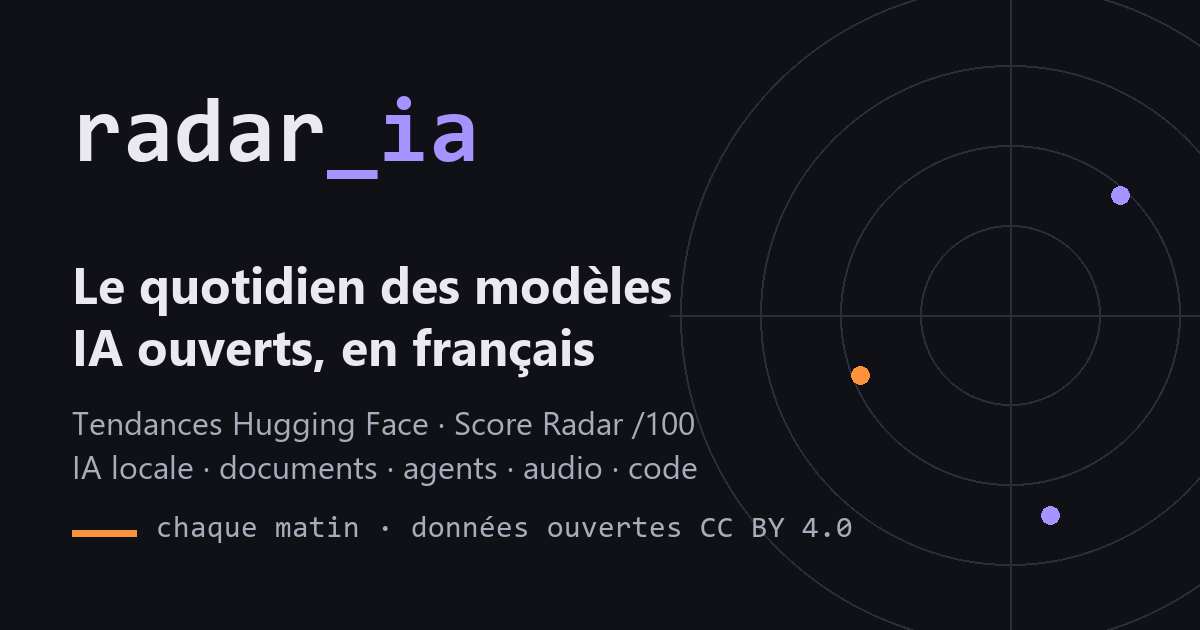
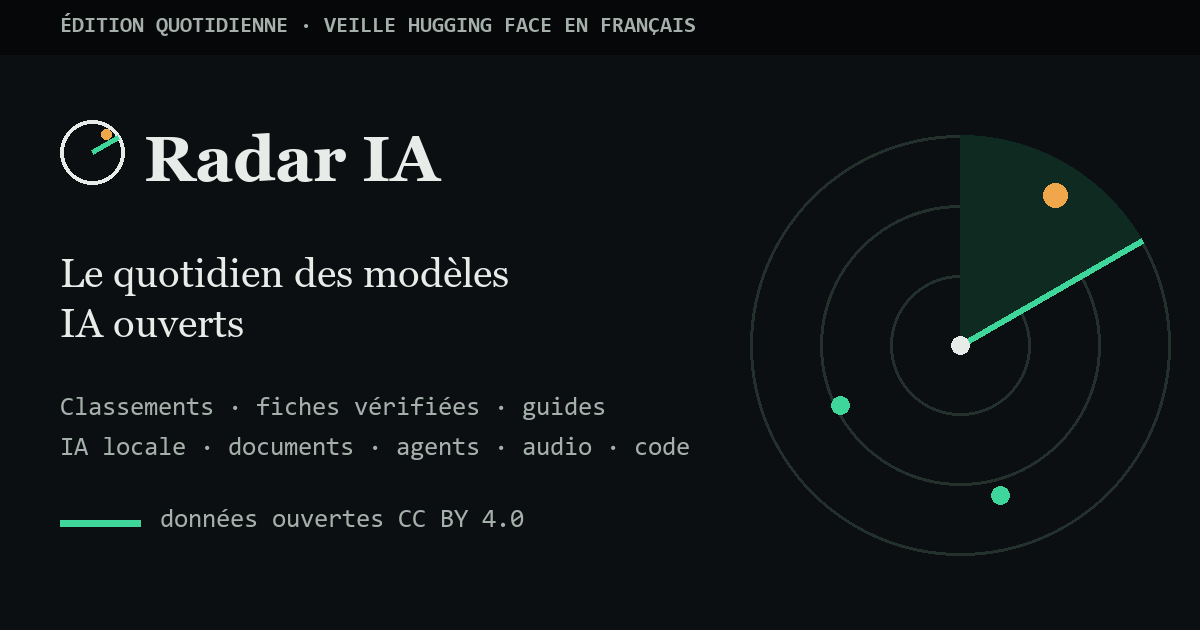
Charte graphique v2 : instrument de bord éditorial ; aucune donnée personnelle
- logo radar SVG, favicon, image de partage refaite
- titres serif, données en mono, accent vert signal et ambre, couleurs par domaine
- bandeau d'édition, en-tête de quotidien, jauges Score Radar en anneau, panneau « Le radar du jour »
- menu défilant sur mobile, thèmes clair et sombre
- CHARTE.md ; retrait des mentions personnelles du propriétaire (nom, profil LinkedIn)

diff --git a/build/build.py b/build/build.py
@@ -304,61 +304,125 @@ class Site:
 # ------------------------------------------------------------------ gabarit
 
 CSS = r"""
-:root{--bg:#f7f7f5;--bg2:#fff;--bg3:#ecece6;--fg:#16181d;--fg2:#4a505b;--fg3:#7a808a;--line:#dcdcd4;--acc:#5b3fd9;--acc2:#c2410c;--soft:#ebe6ff;--star:#a16207;
---mono:"JetBrains Mono",ui-monospace,SFMono-Regular,Menlo,Consolas,monospace;--sans:"IBM Plex Sans",system-ui,-apple-system,"Segoe UI",Roboto,sans-serif;--r:6px;color-scheme:light}
-@media (prefers-color-scheme:dark){:root{--bg:#101116;--bg2:#171922;--bg3:#20232e;--fg:#e9e9ef;--fg2:#a9adbb;--fg3:#7c8191;--line:#2a2e3b;--acc:#a593ff;--acc2:#fb923c;--soft:#25204a;--star:#eab308;color-scheme:dark}}
+/* Charte Radar IA v2 : « instrument de bord éditorial ». Voir CHARTE.md. */
+:root{--bg:#f6f4ee;--bg2:#fffefa;--bg3:#ece8de;--fg:#12161a;--fg2:#4a525c;--fg3:#757d86;--line:#ddd8cc;--rule:#12161a;
+--acc:#0a7155;--acc-ink:#065240;--soft:#dcefe6;--acc2:#a8530a;--star:#a8530a;--ring:#d9d4c7;--band:#12161a;--on-band:#eef1ec;
+--d-local:#2463d6;--d-documents:#a8530a;--d-agents:#7a3fd6;--d-audio:#c42a72;--d-code:#08799a;--d-multilingue:#178a3e;
+--d-image-video:#d2501a;--d-donnees:#5b7a12;--d-tendances:#5f6b78;
+--serif:"Iowan Old Style","Charter","Bitstream Charter","Sitka Text",Cambria,Georgia,serif;
+--sans:system-ui,-apple-system,"Segoe UI",Roboto,"Helvetica Neue",Arial,sans-serif;
+--mono:ui-monospace,"Cascadia Code","JetBrains Mono",SFMono-Regular,Menlo,Consolas,monospace;--r:4px;color-scheme:light}
+@media (prefers-color-scheme:dark){:root{--bg:#0b0f12;--bg2:#11171b;--bg3:#18211f;--fg:#e7ece8;--fg2:#a6b0aa;--fg3:#7b8781;--line:#24302c;--rule:#e7ece8;
+--acc:#3fd69b;--acc-ink:#7be8bd;--soft:#10291f;--acc2:#f0a64a;--star:#f0a64a;--ring:#24302c;--band:#050709;--on-band:#e7ece8;
+--d-local:#6b9cff;--d-documents:#f0a64a;--d-agents:#b08cff;--d-audio:#ff7ab2;--d-code:#4cc9e8;--d-multilingue:#5fd68a;
+--d-image-video:#ff8a5c;--d-donnees:#a9cf52;--d-tendances:#9aa6b2;color-scheme:dark}}
 *{box-sizing:border-box}html{-webkit-text-size-adjust:100%}
-body{margin:0;background:var(--bg);color:var(--fg);font:16px/1.6 var(--sans)}
-a{color:var(--acc);text-decoration:none}a:hover{text-decoration:underline}:focus-visible{outline:2px solid var(--acc2);outline-offset:2px}
-.w{max-width:1120px;margin:0 auto;padding-inline:16px}
-h1,h2,h3{line-height:1.2;text-wrap:balance;margin:0}h1{font-size:clamp(1.6rem,3.6vw,2.4rem);letter-spacing:-.02em}h2{font-size:1.3rem}h3{font-size:1.05rem}
+body{margin:0;background:var(--bg);color:var(--fg);font:16.5px/1.62 var(--sans)}
+a{color:var(--acc-ink);text-decoration:underline;text-decoration-color:color-mix(in srgb,currentColor 35%,transparent);text-underline-offset:2px}
+a:hover{text-decoration-color:currentColor}:focus-visible{outline:2px solid var(--acc2);outline-offset:2px}
+.w{max-width:1160px;margin:0 auto;padding-inline:16px}
+h1,h2,h3{font-family:var(--serif);line-height:1.15;text-wrap:balance;margin:0;font-weight:700;letter-spacing:-.01em}
+h1{font-size:clamp(1.8rem,4.2vw,2.9rem)}h2{font-size:1.35rem}h3{font-size:1.08rem}
+h3 a,h2 a,.card h3 a{color:var(--fg);text-decoration:none}h3 a:hover,h2 a:hover{color:var(--acc-ink)}
 .mono,.num{font-family:var(--mono);font-variant-numeric:tabular-nums}
-.eb{font-family:var(--mono);font-size:.72rem;letter-spacing:.08em;text-transform:uppercase;color:var(--fg3)}
+.eb{font-family:var(--mono);font-size:.7rem;letter-spacing:.12em;text-transform:uppercase;color:var(--fg3)}
 .mut{color:var(--fg2)}.sm{font-size:.88rem}
-header.top{border-bottom:1px solid var(--line);background:var(--bg)}
-.bar{display:flex;align-items:center;justify-content:space-between;gap:12px;padding-block:14px;flex-wrap:wrap}
-.logo{font-family:var(--mono);font-weight:700;font-size:1.15rem;color:var(--fg)}.logo b{color:var(--acc)}
-nav.m{display:flex;gap:2px;flex-wrap:wrap}nav.m a{font-family:var(--mono);font-size:.84rem;padding:6px 10px;border-radius:var(--r);color:var(--fg2)}
-nav.m a[aria-current=page]{background:var(--fg);color:var(--bg)}
-main{padding-block:28px 56px}section{margin-top:36px}section:first-child{margin-top:0}
-.sh{display:flex;align-items:baseline;justify-content:space-between;gap:12px;border-bottom:1px solid var(--line);padding-bottom:8px;margin-bottom:14px}
-.crumb{font-family:var(--mono);font-size:.78rem;color:var(--fg3);margin-bottom:12px}.crumb a{color:var(--fg3)}
-.lead{display:grid;grid-template-columns:minmax(0,1.6fr) minmax(0,1fr);gap:28px}@media(max-width:820px){.lead{grid-template-columns:1fr}}
-.ess{list-style:none;margin:16px 0 0;padding:0}.ess li{padding:10px 0;border-top:1px solid var(--line)}.ess li:first-child{border-top:0}
-.ess li::before{content:"> ";font-family:var(--mono);color:var(--acc2);font-weight:700}
-.box{background:var(--bg3);border-radius:var(--r);padding:14px 16px}
-.cards{display:grid;grid-template-columns:repeat(auto-fill,minmax(240px,1fr));gap:12px}
-.card{background:var(--bg2);border:1px solid var(--line);border-radius:var(--r);padding:14px;display:flex;flex-direction:column;gap:6px;min-width:0}
+/* Bandeau et en-tête façon quotidien */
+.strip{background:var(--band);color:var(--on-band);font-family:var(--mono);font-size:.72rem;letter-spacing:.06em}
+.strip .w{display:flex;justify-content:space-between;gap:12px;padding-block:6px;flex-wrap:wrap}.strip a{color:var(--on-band)}
+header.top{background:var(--bg);border-bottom:3px double var(--rule)}
+.bar{display:flex;align-items:center;justify-content:space-between;gap:12px;padding-block:16px 12px;flex-wrap:wrap}
+.logo{display:inline-flex;align-items:center;gap:10px;color:var(--fg);text-decoration:none}
+.logo svg{width:38px;height:38px;flex:none}.logo b{font-family:var(--serif);font-size:1.7rem;letter-spacing:-.02em;line-height:1}
+.logo i{font-style:normal;font-family:var(--mono);font-size:.72rem;color:var(--fg3);letter-spacing:.08em;display:block;margin-top:3px}
+nav.m{display:flex;gap:2px;flex-wrap:wrap}
+nav.m a{font-family:var(--mono);font-size:.8rem;padding:6px 9px;border-radius:var(--r);color:var(--fg2);text-decoration:none}
+nav.m a:hover{color:var(--fg);background:var(--bg3)}nav.m a[aria-current=page]{color:var(--fg);box-shadow:inset 0 -2px 0 var(--acc)}
+nav.m a.sub{background:var(--acc);color:var(--bg2);font-weight:600}nav.m a.sub:hover{background:var(--acc-ink)}
+main{padding-block:30px 60px}section{margin-top:40px}section:first-child{margin-top:0}
+.sh{display:flex;align-items:baseline;justify-content:space-between;gap:12px;border-top:2px solid var(--rule);padding-top:8px;margin-bottom:16px}
+.sh h2{font-size:1.25rem}.sh a{font-family:var(--mono);font-size:.8rem;white-space:nowrap}.sh .eb{white-space:nowrap}
+.crumb{font-family:var(--mono);font-size:.76rem;color:var(--fg3);margin-bottom:14px}.crumb a{color:var(--fg3)}
+/* Une */
+.lead{display:grid;grid-template-columns:minmax(0,1.65fr) minmax(0,1fr);gap:36px}@media(max-width:860px){.lead{grid-template-columns:1fr}}
+.ess{list-style:none;margin:18px 0 0;padding:0;counter-reset:e}
+.ess li{counter-increment:e;display:grid;grid-template-columns:2.2rem 1fr;gap:6px;padding:12px 0;border-top:1px solid var(--line)}
+.ess li:first-child{border-top:0}.ess li::before{content:counter(e,decimal-leading-zero);font-family:var(--mono);font-weight:700;color:var(--acc);padding-top:2px}
+.box{background:var(--bg3);border-radius:var(--r);padding:16px 18px}
+.radar{background:var(--bg2);border:1px solid var(--line);border-radius:var(--r);padding:16px 18px}
+.radar h2{font-size:1rem;font-family:var(--mono);text-transform:uppercase;letter-spacing:.1em;color:var(--fg2)}
+.bars{list-style:none;margin:12px 0 0;padding:0}.bars li{margin:10px 0}.bars a{color:var(--fg);text-decoration:none;font-weight:600;font-size:.92rem}
+.bars .t{display:flex;justify-content:space-between;gap:8px}.bars .t span{font-family:var(--mono);font-size:.8rem;color:var(--fg2)}
+.bars .g{height:6px;background:var(--ring);border-radius:3px;margin-top:4px;overflow:hidden}.bars .g i{display:block;height:100%;background:var(--acc);border-radius:3px}
+/* Cartes */
+.cards{display:grid;grid-template-columns:repeat(auto-fill,minmax(250px,1fr));gap:14px}
+.card{background:var(--bg2);border:1px solid var(--line);border-top:3px solid var(--dc,var(--line));border-radius:var(--r);padding:14px 16px;display:flex;flex-direction:column;gap:7px;min-width:0}
 .card h3{overflow-wrap:anywhere}.card p{margin:0;font-size:.92rem;color:var(--fg2)}
-.meta{display:flex;gap:12px;flex-wrap:wrap;font-family:var(--mono);font-size:.76rem;color:var(--fg2);margin-top:auto}
-.sc{display:inline-block;min-width:38px;text-align:center;padding:2px 8px;border-radius:12px;font-family:var(--mono);font-size:.82rem;background:var(--soft);color:var(--acc)}
-.sc.hot{background:var(--acc);color:var(--bg)}
-.chip{display:inline-block;font-family:var(--mono);font-size:.7rem;padding:1px 7px;border-radius:3px;background:var(--bg3);color:var(--fg2);margin:0 4px 4px 0}
+.meta{display:flex;gap:12px;flex-wrap:wrap;font-family:var(--mono);font-size:.75rem;color:var(--fg2);margin-top:auto;padding-top:4px}
+/* Jauge Score Radar */
+.sc{--p:0;display:inline-grid;place-items:center;width:2.35em;height:2.35em;border-radius:50%;vertical-align:middle;flex:none;
+background:radial-gradient(closest-side,var(--bg2) 76%,transparent 78% 100%),conic-gradient(var(--fg3) calc(var(--p)*1%),var(--ring) 0);
+font:700 .78rem/1 var(--mono);color:var(--fg)}
+.sc.hot{background:radial-gradient(closest-side,var(--bg2) 76%,transparent 78% 100%),conic-gradient(var(--acc) calc(var(--p)*1%),var(--ring) 0);color:var(--acc-ink)}
+h1 .sc{font-size:1.1rem}
+.chip{display:inline-flex;align-items:center;gap:5px;font-family:var(--mono);font-size:.7rem;padding:2px 7px;border-radius:999px;background:var(--bg3);color:var(--fg2);margin:0 4px 4px 0;text-decoration:none}
+.chip[data-d]::before{content:"";width:7px;height:7px;border-radius:50%;background:var(--dc,var(--fg3))}
+a.chip:hover{color:var(--fg)}
 .star{color:var(--star)}
+/* Tableaux */
 .tw{overflow-x:auto;border:1px solid var(--line);border-radius:var(--r);background:var(--bg2)}
-table{border-collapse:collapse;width:100%;font-size:.9rem}th{font-family:var(--mono);font-size:.7rem;text-transform:uppercase;letter-spacing:.06em;color:var(--fg3);text-align:left;padding:9px 10px;border-bottom:2px solid var(--line);white-space:nowrap}
-td{padding:9px 10px;border-bottom:1px solid var(--line);vertical-align:top}tr:last-child td{border-bottom:0}.r{text-align:right}
-.tw table{min-width:680px}
-.up{color:#15803d}.dn{color:var(--acc2)}
-article.a{max-width:70ch}article.a .chapo{font-size:1.12rem;color:var(--fg2)}
-.by{font-family:var(--mono);font-size:.78rem;color:var(--fg3);border-block:1px solid var(--line);padding-block:8px;margin:14px 0 20px;display:flex;gap:14px;flex-wrap:wrap}
-.body h2{margin:26px 0 8px}.body h3{margin:18px 0 6px}.body p{margin:0 0 14px}.body ul,.body ol{padding-left:22px;margin:0 0 14px}
-.body table{margin-bottom:14px;display:block;overflow-x:auto;max-width:100%}main{overflow-wrap:anywhere}.body blockquote{margin:0 0 14px;padding-left:14px;border-left:3px solid var(--acc);color:var(--fg2)}
+table{border-collapse:collapse;width:100%;font-size:.9rem}
+th{font-family:var(--mono);font-size:.68rem;text-transform:uppercase;letter-spacing:.08em;color:var(--fg3);text-align:left;padding:10px;border-bottom:2px solid var(--rule);white-space:nowrap;background:var(--bg2)}
+td{padding:9px 10px;border-bottom:1px solid var(--line);vertical-align:middle}tr:last-child td{border-bottom:0}tbody tr:hover td{background:var(--bg3)}
+td a{text-decoration:none}td a strong{color:var(--fg)}.r{text-align:right}.tw table{min-width:680px}
+.up{color:#178a3e}.dn{color:var(--acc2)}
+/* Articles */
+article.a{max-width:68ch}article.a h1{font-size:clamp(1.9rem,4.4vw,3rem)}
+article.a .chapo{font-family:var(--serif);font-size:1.22rem;line-height:1.5;color:var(--fg2);margin:14px 0 0}
+.by{font-family:var(--mono);font-size:.76rem;color:var(--fg3);border-block:1px solid var(--line);padding-block:9px;margin:18px 0 24px;display:flex;gap:14px;flex-wrap:wrap}
+.body{font-size:1.04rem}.body h2{margin:30px 0 10px;font-size:1.4rem}.body h3{margin:20px 0 6px}.body p{margin:0 0 15px}.body ul,.body ol{padding-left:22px;margin:0 0 15px}
+.body table{margin-bottom:15px;display:block;overflow-x:auto;max-width:100%}main{overflow-wrap:anywhere}
+.body blockquote{margin:0 0 15px;padding:4px 0 4px 16px;border-left:3px solid var(--acc);color:var(--fg2);font-family:var(--serif);font-size:1.08rem}
 .body code,code{font-family:var(--mono);font-size:.86em;background:var(--bg3);padding:1px 5px;border-radius:3px}
-dl.kv{display:grid;grid-template-columns:max-content 1fr;gap:6px 16px;margin:0}dl.kv dt{font-family:var(--mono);font-size:.8rem;color:var(--fg3)}dl.kv dd{margin:0}
-.faq dt{font-weight:600;margin-top:16px}.faq dd{margin:4px 0 0}
-pre.code{font-family:var(--mono);font-size:.82rem;background:var(--bg3);padding:12px 14px;border-radius:var(--r);overflow-x:auto}
-footer{border-top:1px solid var(--line);padding-block:20px 32px;font-size:.85rem;color:var(--fg2)}
-footer .w{display:flex;justify-content:space-between;gap:16px;flex-wrap:wrap}footer nav{display:flex;gap:12px;flex-wrap:wrap;font-family:var(--mono);font-size:.8rem}
-nav.m a.sub{color:var(--acc);font-weight:600}
-.spon{margin-top:28px;padding:10px 14px;border:1px dashed var(--line);border-radius:var(--r);font-size:.88rem;color:var(--fg2)}.spon .eb{margin-right:6px}
-.cta{margin-top:36px;border-left:3px solid var(--acc)}.cta h2{font-size:1.1rem}.cta p{margin:6px 0}
+dl.kv{display:grid;grid-template-columns:max-content 1fr;gap:0;margin:0;border-top:1px solid var(--line)}
+dl.kv dt,dl.kv dd{padding:7px 0;border-bottom:1px solid var(--line)}dl.kv dt{font-family:var(--mono);font-size:.76rem;color:var(--fg3);padding-right:18px;text-transform:uppercase;letter-spacing:.05em}dl.kv dd{margin:0}
+.faq dt{font-family:var(--serif);font-weight:700;font-size:1.12rem;margin-top:22px}.faq dd{margin:6px 0 0}
+pre.code{font-family:var(--mono);font-size:.82rem;background:var(--band);color:var(--on-band);padding:14px 16px;border-radius:var(--r);overflow-x:auto}
+/* Pied de page */
+footer{background:var(--band);color:var(--on-band);border-top:1px solid var(--line);padding-block:28px 36px;font-size:.86rem;margin-top:20px}
+footer a{color:var(--on-band)}footer .w{display:flex;justify-content:space-between;gap:20px;flex-wrap:wrap}
+footer nav{display:flex;gap:14px;flex-wrap:wrap;font-family:var(--mono);font-size:.78rem}footer .logo{color:var(--on-band)}footer .logo i{color:color-mix(in srgb,var(--on-band) 65%,transparent)}
+footer p{margin:10px 0 0;max-width:62ch;color:color-mix(in srgb,var(--on-band) 78%,transparent)}
+/* Audience et revenus */
+.spon{margin-top:30px;padding:10px 14px;border:1px dashed var(--line);border-radius:var(--r);font-size:.86rem;color:var(--fg2)}.spon .eb{margin-right:8px}
+.cta{margin-top:40px;border-left:4px solid var(--acc);background:var(--soft)}.cta h2{font-size:1.2rem}.cta p{margin:6px 0}
 form.nl{margin:10px 0 4px}form.nl div{display:flex;gap:8px;flex-wrap:wrap}form.nl label{display:block;margin-bottom:4px}
-form.nl input[type=email]{flex:1 1 220px;min-width:0;font:inherit;padding:8px 10px;border:1px solid var(--line);border-radius:var(--r);background:var(--bg2);color:var(--fg)}
-form.nl button,a.btn{font:600 .9rem var(--sans);padding:8px 14px;border:0;border-radius:var(--r);background:var(--acc);color:var(--bg);cursor:pointer;display:inline-block}
-a.btn:hover{text-decoration:none;opacity:.9}.btns{display:flex;gap:10px;flex-wrap:wrap;margin:12px 0}
-.offres{display:grid;grid-template-columns:repeat(auto-fill,minmax(240px,1fr));gap:12px;margin-top:12px}.offres .card strong.prix{font-family:var(--mono);color:var(--acc)}
+form.nl input[type=email]{flex:1 1 220px;min-width:0;font:inherit;padding:9px 11px;border:1px solid var(--line);border-radius:var(--r);background:var(--bg2);color:var(--fg)}
+form.nl button,a.btn{font:600 .9rem var(--sans);padding:9px 15px;border:0;border-radius:var(--r);background:var(--acc);color:var(--bg2);cursor:pointer;display:inline-block;text-decoration:none}
+a.btn:hover,form.nl button:hover{background:var(--acc-ink)}.btns{display:flex;gap:10px;flex-wrap:wrap;margin:12px 0}
+.offres{display:grid;grid-template-columns:repeat(auto-fill,minmax(240px,1fr));gap:12px;margin-top:12px}.offres .card strong.prix{font-family:var(--mono);color:var(--acc-ink)}
+/* Couleurs de domaine */
+[data-d=local]{--dc:var(--d-local)}[data-d=documents]{--dc:var(--d-documents)}[data-d=agents]{--dc:var(--d-agents)}[data-d=audio]{--dc:var(--d-audio)}
+[data-d=code]{--dc:var(--d-code)}[data-d=multilingue]{--dc:var(--d-multilingue)}[data-d=image-video]{--dc:var(--d-image-video)}[data-d=donnees]{--dc:var(--d-donnees)}[data-d=tendances]{--dc:var(--d-tendances)}
+@media(max-width:600px){body{font-size:16px}.bar{padding-block:12px 6px;gap:8px}.logo b{font-size:1.45rem}.logo svg{width:32px;height:32px}.strip .long{display:none}
+nav.m{flex-wrap:nowrap;overflow-x:auto;width:100%;gap:0;scrollbar-width:none;margin-inline:-4px}nav.m a{padding:7px 8px;font-size:.78rem;white-space:nowrap}.lead{gap:24px}}
+@media print{.strip,nav.m,.spon,.cta,footer nav{display:none}body{background:#fff;color:#000}}
 """
+
+LOGO = ('<svg viewBox="0 0 40 40" aria-hidden="true"><circle cx="20" cy="20" r="18" fill="none" stroke="currentColor" stroke-width="2"/>'
+        '<circle cx="20" cy="20" r="11" fill="none" stroke="currentColor" stroke-width="1.4" opacity=".5"/>'
+        '<path d="M20 20 L20 2 A18 18 0 0 1 35.6 11 Z" fill="var(--acc)" opacity=".3"/>'
+        '<line x1="20" y1="20" x2="35.6" y2="11" stroke="var(--acc)" stroke-width="2.4" stroke-linecap="round"/>'
+        '<circle cx="27.5" cy="9.6" r="2.7" fill="var(--acc2)"/><circle cx="20" cy="20" r="2.3" fill="currentColor"/></svg>')
+FAVICON = ('<svg xmlns="http://www.w3.org/2000/svg" viewBox="0 0 40 40"><circle cx="20" cy="20" r="20" fill="#0b0f12"/>'
+           '<circle cx="20" cy="20" r="15" fill="none" stroke="#3fd69b" stroke-width="2.2"/><circle cx="20" cy="20" r="8.5" fill="none" stroke="#3fd69b" stroke-width="1.4" opacity=".55"/>'
+           '<line x1="20" y1="20" x2="33" y2="12.5" stroke="#3fd69b" stroke-width="2.6" stroke-linecap="round"/><circle cx="27" cy="11" r="2.8" fill="#f0a64a"/></svg>')
+
+def dom_chip(site, d, root=None) -> str:
+    """Pastille de domaine colorée (lien si root est fourni)."""
+    if root is None:
+        return f'<span class="chip" data-d="{esc(d)}">{esc(site.dom_name(d))}</span>'
+    return f'<a class="chip" data-d="{esc(d)}" href="{root}{site.dom_page(d)}">{esc(site.dom_name(d))}</a>'
 
 NAV = [("index.html", "Une"), ("classements.html", "Classements"), ("articles.html", "Articles"), ("modeles.html", "Modèles"),
        ("domaines.html", "Domaines"), ("guides.html", "Guides"), ("editions.html", "Éditions"), ("faq.html", "FAQ"), ("pour-les-ia.html", "API & IA"),
@@ -453,7 +517,7 @@ def page(site: Site, path: str, title: str, desc: str, body: str, *, jsonld: lis
 <meta name="description" content="{esc(clip(desc, 158))}">
 <meta name="robots" content="{'noindex' if path == '404.html' else 'index,follow,max-snippet:-1,max-image-preview:large'}">{verif_meta}
 {f'<link rel="canonical" href="{esc(canonical)}">' if site.url and path != '404.html' else ''}
-<link rel="stylesheet" href="{root}assets/style.css">
+<link rel="stylesheet" href="{root}assets/style.css"><link rel="icon" href="{root}assets/favicon.svg" type="image/svg+xml">
 <link rel="alternate" type="application/rss+xml" title="{SITE_NAME} — RSS" href="{root}feed.xml">
 <link rel="alternate" type="application/feed+json" title="{SITE_NAME} — JSON Feed" href="{root}feed.json">
 <link rel="alternate" type="text/plain" title="llms.txt" href="{root}llms.txt">
@@ -463,12 +527,14 @@ def page(site: Site, path: str, title: str, desc: str, body: str, *, jsonld: lis
 <meta property="og:type" content="{og_type}"><meta property="og:title" content="{esc(clip(title, 90))}">
 <meta property="og:description" content="{esc(clip(desc, 200))}">{f'<meta property="og:url" content="{esc(canonical)}">' if site.url else ''}
 {f'<meta property="article:published_time" content="{esc(iso_dt(published))}">' if published else ''}{f'<meta property="article:modified_time" content="{esc(iso_dt(modified))}">' if modified else ''}
-{og_img}<meta name="theme-color" content="#5b3fd9">
+{og_img}<meta name="theme-color" content="#0b0f12">
 <script type="application/ld+json">{json.dumps(ld if len(ld) > 1 else ld[0], ensure_ascii=False).replace("</", "<\\/")}</script>"""
-    shell_top = f"""<header class="top"><div class="w bar"><a class="logo" href="{root}index.html">radar<b>_ia</b></a><nav class="m" aria-label="Rubriques">{nav}</nav></div></header>
+    marque = f'{LOGO}<span><b>{SITE_NAME}</b><i>LE QUOTIDIEN DES MODÈLES IA OUVERTS</i></span>'
+    shell_top = f"""<div class="strip"><div class="w"><span>Édition du {d_long(site.today)}<span class="long"> · veille quotidienne Hugging Face en français</span></span><span><a href="{root}abonnement.html">S'abonner</a> · <a href="{root}feed.xml">RSS</a> · <a href="{root}llms.txt">llms.txt</a></span></div></div>
+<header class="top"><div class="w bar"><a class="logo" href="{root}index.html">{marque}</a><nav class="m" aria-label="Rubriques">{nav}</nav></div></header>
 <main class="w">{crumb_html}{body}</main>
-<footer><div class="w"><div>{SITE_NAME} — {esc(SITE_TAGLINE)}.<br>Données sous licence <a href="{LICENSE_URL}" rel="license">CC BY 4.0</a> · mise à jour {d_short(site.today)} · rédigé par des agents IA, sources liées sur chaque page.</div>
-<nav><a href="{root}abonnement.html">S'abonner</a><a href="{root}soutenir.html">Soutenir</a><a href="{root}soutenir.html#annoncer">Devenir partenaire</a><a href="{root}feed.xml">RSS</a><a href="{root}llms.txt">llms.txt</a><a href="{root}api/v1/index.json">API</a><a href="{root}sitemap.xml">Sitemap</a><a href="{root}methode.html">Méthode</a></nav></div></footer>{pixel(site, path)}"""
+<footer><div class="w"><div><a class="logo" href="{root}index.html">{marque}</a><p>{esc(SITE_TAGLINE)}. Rédigé par des agents IA ; licences, dates et tailles vérifiées sur l'API Hugging Face ; sources liées sur chaque page. Données sous licence <a href="{LICENSE_URL}" rel="license">CC BY 4.0</a> · mise à jour {d_short(site.today)}.</p></div>
+<nav aria-label="Pied de page"><a href="{root}abonnement.html">S'abonner</a><a href="{root}soutenir.html">Soutenir</a><a href="{root}soutenir.html#annoncer">Devenir partenaire</a><a href="{root}guides.html">Guides</a><a href="{root}methode.html">Méthode</a><a href="{root}feed.xml">RSS</a><a href="{root}llms.txt">llms.txt</a><a href="{root}api/v1/index.json">API</a><a href="{root}sitemap.xml">Sitemap</a></nav></div></footer>{pixel(site, path)}"""
     if artifact_shell:  # page racine d'un artefact Claude : pas de doctype, le squelette est ajouté à la publication
         return head + "\n" + shell_top
     return f"""<!doctype html>
@@ -550,17 +616,19 @@ def ld_dataset(site):
 
 def score_badge(s):
     if s is None: return ""
-    s = round(float(s)); return f'<span class="sc{" hot" if s >= 70 else ""}" title="Score Radar /100">{s}</span>'
+    s = max(0, min(100, round(float(s))))
+    return f'<span class="sc{" hot" if s >= 70 else ""}" style="--p:{s}" title="Score Radar {s}/100">{s}</span>'
 
 def item_card(site, it, root, rank=None):
     star = '<span class="star" title="Pertinent : local, documents, agents, audio, code, français">★</span> ' if it.get("pertinent") else ""
-    doms = "".join(f'<span class="chip">{esc(site.dom_name(d))}</span>' for d in it.get("domaines") or [])
-    return f"""<div class="card"><div style="display:flex;justify-content:space-between;gap:8px"><div class="eb">{f"#{rank} · " if rank else ""}{esc(it.get('org'))}</div>{score_badge(it.get('score'))}</div>
+    doms = "".join(dom_chip(site, d) for d in it.get("domaines") or [])
+    d0 = (it.get("domaines") or ["tendances"])[0]
+    return f"""<div class="card" data-d="{esc(d0)}"><div style="display:flex;justify-content:space-between;gap:8px"><div class="eb">{f"#{rank} · " if rank else ""}{esc(it.get('org'))}</div>{score_badge(it.get('score'))}</div>
 <h3>{star}<a href="{root}{site.item_page(it)}">{esc(it.get('nom'))}</a></h3><div>{doms}<span class="chip">{esc(TYPE_LABEL.get(it.get('type'), ''))}</span></div>
 <p>{esc(it.get('pourquoi') or it.get('resume'))}</p><div class="meta"><span>♥ {fmt_n(it.get('likes'))}</span><span>↓ {fmt_n(it.get('downloads'))}</span>{f"<span>{esc(site.taille(it))}</span>" if site.taille(it) else ''}</div></div>"""
 
 def art_card(site, a, root):
-    return f"""<div class="card"><div><span class="chip">{esc(site.dom_name(a.get('domaine')))}</span></div><h3><a href="{root}{site.art_page(a)}">{esc(a.get('titre'))}</a></h3>
+    return f"""<div class="card" data-d="{esc(a.get('domaine'))}"><div>{dom_chip(site, a.get('domaine'))}</div><h3><a href="{root}{site.art_page(a)}">{esc(a.get('titre'))}</a></h3>
 <p>{esc(a.get('chapo'))}</p><div class="meta"><span>{d_short(a.get('date'))}</span><span>{esc(a.get('tempsLecture') or '')} min</span></div></div>"""
 
 def ranking_table(site, entries, root, limit=None):
@@ -571,9 +639,17 @@ def ranking_table(site, entries, root, limit=None):
         d = e.get("delta")
         dl = '<span class="star">nouveau</span>' if d is None else (f'<span class="up">▲ {d}</span>' if d > 0 else (f'<span class="dn">▼ {-d}</span>' if d < 0 else "="))
         rows.append(f"""<tr><td class="num">{e.get('rank') or e.get('rang') or i+1}</td><td><a href="{root}{site.item_page(it)}"><strong>{esc(it.get('nom'))}</strong></a>{' <span class="star">★</span>' if it.get('pertinent') else ''}<div class="sm mut mono">{esc(it.get('org'))} · {esc(TYPE_LABEL.get(it.get('type'), ''))}{(' · ' + esc(it['tache'])) if it.get('tache') else ''}</div></td>
-<td>{''.join(f'<span class="chip">{esc(site.dom_name(x))}</span>' for x in it.get('domaines') or [])}</td><td class="r num">{fmt_n(e.get('likes', it.get('likes')))}</td><td class="r num">{fmt_n(e.get('downloads', it.get('downloads')))}</td><td class="r">{score_badge(e.get('score', it.get('score')))}</td><td class="mono sm">{dl}</td></tr>""")
+<td>{''.join(dom_chip(site, x) for x in it.get('domaines') or [])}</td><td class="r num">{fmt_n(e.get('likes', it.get('likes')))}</td><td class="r num">{fmt_n(e.get('downloads', it.get('downloads')))}</td><td class="r">{score_badge(e.get('score', it.get('score')))}</td><td class="mono sm">{dl}</td></tr>""")
     if not rows: return '<p class="mut">Classement en cours de calcul.</p>'
     return f'<div class="tw"><table><thead><tr><th>#</th><th>Élément</th><th>Domaines</th><th class="r">Likes</th><th class="r">Téléch.</th><th class="r">Score</th><th>Évol.</th></tr></thead><tbody>{"".join(rows)}</tbody></table></div>'
+
+def radar_panel(site, n=6) -> str:
+    """Top du jour en jauges horizontales (CSS seul)."""
+    ent = [(e, site.items[e["itemId"]]) for e in (site.classements.get("jour") or {}).get("entrees") or [] if e.get("itemId") in site.items][:n]
+    if not ent: return ""
+    li = "".join(f'<li><div class="t"><a href="{site.item_page(it)}">{esc(it.get("nom"))}</a><span>{round(float(e.get("score") or it.get("score") or 0))}</span></div>'
+                 f'<div class="g"><i style="width:{max(2, min(100, round(float(e.get("score") or it.get("score") or 0))))}%"></i></div></li>' for e, it in ent)
+    return f'<div class="radar"><h2>Le radar du jour</h2><ol class="bars">{li}</ol><p class="sm" style="margin:10px 0 0"><a href="classements.html">Classement complet →</a></p></div>'
 
 def ranking_items(site, per):
     cl = site.classements.get(per) or {}
@@ -725,6 +801,7 @@ def build(site: Site, out: Path, artifact=False):
     if out.exists(): shutil.rmtree(out)
     (out / "assets").mkdir(parents=True)
     (out / "assets/style.css").write_text(CSS.strip(), encoding="utf-8")
+    (out / "assets/favicon.svg").write_text(FAVICON, encoding="utf-8")
     urls: list[tuple[str, str]] = []  # (path, lastmod)
     md_docs: list[tuple[str, str, str]] = []  # (title, path_md, markdown)
 
@@ -745,7 +822,7 @@ def build(site: Site, out: Path, artifact=False):
                          for t in ed.get("aTester") or [] if t.get("itemId") in site.items)
         top = [site.items[i] for i in ed.get("topIds") or [] if i in site.items][:6]
         r = f"""<section class="lead"><div><div class="eb">Édition du {d_long(ed['date'])}</div><h1>{esc(ed.get('titre'))}</h1><ol class="ess">{ess}</ol></div>
-<aside><div class="box"><h2 style="font-size:1rem">Tendance de fond</h2><p class="sm" style="margin:6px 0 0">{esc(ed.get('tendance'))}</p></div>
+<aside>{radar_panel(site)}<div class="box" style="margin-top:16px"><h2 style="font-size:1rem">Tendance de fond</h2><p class="sm" style="margin:6px 0 0">{esc(ed.get('tendance'))}</p></div>
 {f'<div style="margin-top:16px"><div class="eb">À tester</div><ul class="sm" style="padding-left:18px">{tester}</ul></div>' if tester else ''}</aside></section>
 <section><div class="sh"><h2>Les modèles qui comptent aujourd'hui</h2><a class="mono sm" href="classements.html">classements →</a></div><div class="cards">{''.join(item_card(site, it, '', i+1) for i, it in enumerate(top))}</div></section>"""
     r += f"""<section><div class="sh"><h2>Derniers articles</h2><a class="mono sm" href="articles.html">tous →</a></div><div class="cards">{''.join(art_card(site, a, '') for a in site.art_sorted[:6]) or '<p class="mut">Premiers articles demain matin.</p>'}</div></section>
@@ -819,7 +896,7 @@ def build(site: Site, out: Path, artifact=False):
         kv, kv_md = fiche_faits(site, it, "../")
         body = f"""<div class="eb">{esc(tl)} · {esc(it.get('org'))}</div><h1 style="margin:6px 0 10px">{esc(it['nom'])} {score_badge(it.get('score'))}</h1>
 <p style="max-width:70ch;font-size:1.08rem">{esc(it.get('resume'))}</p>
-<div class="lead" style="margin-top:18px"><div><dl class="kv">{kv}<dt>Domaines</dt><dd>{''.join(f'<a class="chip" href="../{site.dom_page(d)}">{esc(site.dom_name(d))}</a>' for d in it.get('domaines') or [])}</dd>
+<div class="lead" style="margin-top:18px"><div><dl class="kv">{kv}<dt>Domaines</dt><dd>{''.join(dom_chip(site, d, '../') for d in it.get('domaines') or [])}</dd>
 <dt>Pertinent IA pratique</dt><dd>{'oui ★' if it.get('pertinent') else 'non'}</dd><dt>Fiche officielle</dt><dd><a href="{esc(site.hf_url(it))}" rel="noopener">{esc(site.hf_url(it))}</a></dd></dl>
 {f'<p class="sm mut" style="margin-top:8px">Licence, dates, langues, paramètres, formats, modèle de base et compteurs vérifiés sur l’API Hugging Face le {d_short(site.v(it)["verifieLe"])}.</p>' if site.v(it).get("verifieLe") else ''}
 <p class="box sm" style="margin-top:16px"><strong>Pourquoi ça compte.</strong> {esc(it.get('pourquoi'))}</p>{bloc_affiliation(site, it)}</div>

diff --git a/CHARTE.md b/CHARTE.md
@@ -1,0 +1,49 @@
+# Radar IA — charte graphique v2 (octobre 2026)
+
+**Concept : l'instrument de bord éditorial.** Un quotidien du matin (titres à empattement, filets, numérotation)
+croisé avec un écran radar (vert phosphore, jauges, points de signal). Sobre, lisible, fiable : on vient chercher
+des faits vérifiés, pas du spectacle.
+
+## Logo
+- Symbole : cercle extérieur, cercle intérieur à 50 %, secteur de balayage (vert à 30 %), aiguille verte, un point
+  ambre (le signal détecté), centre plein. SVG en ligne (`LOGO` dans `build/build.py`), `currentColor` pour s'adapter
+  au fond ; favicon `assets/favicon.svg` (fond encre, traits verts).
+- Logotype : « Radar IA » en serif gras ; signature en capitales mono : « LE QUOTIDIEN DES MODÈLES IA OUVERTS ».
+- Zone de protection : la hauteur du symbole. Ne pas déformer, ne pas changer les couleurs du symbole.
+
+## Couleurs
+| Rôle | Clair | Sombre |
+|---|---|---|
+| Papier (fond) | `#f6f4ee` | `#0b0f12` |
+| Surface (cartes) | `#fffefa` | `#11171b` |
+| Encre (texte) | `#12161a` | `#e7ece8` |
+| Texte secondaire | `#4a525c` | `#a6b0aa` |
+| Filets | `#ddd8cc` | `#24302c` |
+| **Signal** (accent, liens, jauges ≥ 70) | `#0a7155` | `#3fd69b` |
+| Signal sombre (liens au survol) | `#065240` | `#7be8bd` |
+| **Ambre** (alerte, point du logo, ★) | `#a8530a` | `#f0a64a` |
+| Bandeau et pied de page | `#12161a` | `#050709` |
+
+Couleurs de domaine (pastilles, liseré haut des cartes ; jamais seules porteuses d'information, toujours avec le nom) :
+local `#2463d6` · documents `#a8530a` · agents `#7a3fd6` · audio `#c42a72` · code `#08799a` · multilingue `#178a3e` ·
+image-vidéo `#d2501a` · données `#5b7a12` · tendances `#5f6b78` (versions éclaircies en mode sombre).
+
+## Typographie (aucune police téléchargée)
+- Titres : serif système — Iowan Old Style, Charter, Sitka, Cambria, Georgia.
+- Texte : sans-serif système — system-ui, Segoe UI, Roboto.
+- Données, étiquettes, navigation : mono système — ui-monospace, Cascadia Code, JetBrains Mono, Consolas.
+- Sur-titres (`.eb`) : mono, capitales, interlettrage 0,12 em.
+
+## Composants
+- **Bandeau d'édition** (haut de page) : date de l'édition, liens S'abonner · RSS · llms.txt.
+- **En-tête** : logo, navigation mono, bouton « S'abonner » plein ; double filet sous l'en-tête (code du quotidien).
+- **Titres de section** : filet épais au-dessus, titre serif, lien mono à droite.
+- **L'essentiel** : liste numérotée 01, 02, 03 en mono vert.
+- **Jauge Score Radar** : anneau (conic-gradient) proportionnel au score ; vert si ≥ 70, gris sinon.
+- **Le radar du jour** : top du jour en barres horizontales.
+- **Cartes** : liseré haut à la couleur du domaine, titre serif, méta mono.
+- **Tableaux** : en-têtes mono capitales, filet épais, survol de ligne.
+- **Encarts** : abonnement (fond vert pâle, filet gauche), espace partenaire (pointillés), toujours signalés.
+
+## Ton
+Phrases courtes, chiffres sourcés, pas de superlatifs, pas d'émojis. On dit ce qu'on ne sait pas.

diff --git a/CLAUDE.md b/CLAUDE.md
@@ -1,8 +1,8 @@
 # Radar IA — contexte projet pour Claude Code
 
 Langue : français uniquement (code commenté en français, messages de commit en français).
-Propriétaire : Guillaume, compte GitHub `clauzelfamille-dot`. Ne jamais publier d'adresse e-mail personnelle dans le
-dépôt ; commits avec l'adresse anonyme GitHub (`250761295+clauzelfamille-dot@users.noreply.github.com`).
+Hébergé sur le compte GitHub `clauzelfamille-dot`. Ne jamais publier de donnée personnelle du propriétaire (nom, e-mail,
+profils de réseaux) dans le dépôt ni sur le site ; commits avec l'adresse anonyme GitHub (`250761295+clauzelfamille-dot@users.noreply.github.com`).
 
 ## Ce qu'est le projet
 Site statique de veille sur les modèles IA ouverts (Hugging Face), optimisé SEO + GEO (moteurs et assistants IA).
@@ -18,7 +18,7 @@ Site statique de veille sur les modèles IA ouverts (Hugging Face), optimisé SE
   dates, langues, paramètres, formats, modèle de base, compteurs). Ces faits priment sur la saisie des agents et
   alimentent les guides (`guides/francais`, `guides/licences`, `guides/gguf`, `familles/<base>`).
 - `build/verifier.py` : contrôles avant publication ; `build/indexnow.py` ; `build/diffusion.py`.
-- `SEO-GEO.md` : cahier des charges de référencement à respecter.
+- `SEO-GEO.md` : cahier des charges de référencement à respecter ; `CHARTE.md` : charte graphique (à respecter).
 
 ## Commandes
 - Générer : `python3 build/build.py --data data --out dist --site-url https://clauzelfamille-dot.github.io/radar-ia/`
@@ -32,7 +32,7 @@ Ils écrivent dans la base de l'artefact back-office https://claude.ai/artifact/
 le site public miroir est https://claude.ai/artifact/FiYty6LrpA8fpC6WMEyVgd. L'agent 5 pousse `data/` ici si le dépôt
 lui est attaché.
 Tâches planifiées locales (application Claude, une conversation par passage) : Synchro GitHub 08:55 (exporte la base
-vers `data/`, contrôle, pousse), Diffusion 09:20 (posts prêts à publier dans `../diffusion/`), Croissance SEO/GEO
+vers `data/`, vérifie sur Hugging Face, contrôle, pousse), Diffusion (en pause : pas de profil personnel), Croissance SEO/GEO
 le lundi 10:00, Revenus & pilotage le lundi 10:30 (rapport dans `../pilotage/`).
 
 ## Règles
@@ -41,4 +41,4 @@ le lundi 10:00, Revenus & pilotage le lundi 10:30 (rapport dans `../pilotage/`).
 - Score Radar = 40·popularité + 30·diffusion + 20·fraîcheur + 10·pertinence (voir build.py et SEO-GEO.md).
 - Garder le site sans JavaScript côté lecteur ; tout le texte doit être dans le HTML.
 - Monétisation : tout contenu payant est signalé et en `rel="sponsored"` ; aucun partenaire n'influence le Score Radar ;
-  aucun message envoyé à un tiers sans validation de Guillaume (brouillons seulement).
+  aucun message envoyé à un tiers sans validation du propriétaire (brouillons seulement).

diff --git a/MONETISATION.md b/MONETISATION.md
@@ -14,7 +14,7 @@ Coûts directs actuels : 0 € (GitHub Pages gratuit ; les agents tournent sur l
 | Abonnement | Page `abonnement.html` + encart sur la une, les articles, les éditions et les fiches (RSS tant que la newsletter n'est pas branchée) |
 | Partenaires | Page `soutenir.html#annoncer` (offres, règles, contact) + encart « Espace partenaire » sur la une, les éditions, les articles |
 | Réseaux | Après chaque déploiement, les nouveaux articles partent sur Bluesky et Mastodon dès que les secrets existent |
-| Agents | Synchro GitHub (quotidien), Diffusion (quotidien), Croissance SEO/GEO (hebdo), Revenus & pilotage (hebdo) |
+| Agents | Synchro GitHub (quotidien), Croissance SEO/GEO (hebdo), Revenus & pilotage (hebdo) |
 
 ## Ce que seul le propriétaire peut faire (comptes, signatures, paiements)
 Par ordre d'impact. Chaque ligne active un bloc déjà prêt : remplir le champ dans `config/site.json`, commit, push.
@@ -24,8 +24,8 @@ Par ordre d'impact. Chaque ligne active un bloc déjà prêt : remplir le champ 
 2. **Bing Webmaster Tools** (5 min) — importer depuis Search Console, ou balise → `verification.bing`.
 3. **Newsletter** (15 min) — Buttondown (le plus simple) ou Brevo (français, gratuit jusqu'à 300 envois/jour) →
    `newsletter.action` (+ `champEmail`, `champsCaches`). C'est l'actif principal : une audience qui revient et qui se sponsorise.
-4. **Profil LinkedIn** — publier chaque matin le post préparé par l'agent Diffusion (dossier `diffusion/` du projet).
-   Le réseau personnel est la source de visiteurs la plus rapide les 30 premiers jours.
+4. **Aucun profil personnel** — le propriétaire ne veut pas que ses données ni ses profils de réseaux soient utilisés :
+   la diffusion passe uniquement par des comptes au nom de Radar IA.
 5. **Bluesky + Mastodon** (10 min) — créer « Radar IA », puis dans GitHub → Settings → Secrets → Actions :
    `BLUESKY_HANDLE`, `BLUESKY_APP_PASSWORD` (mot de passe d'application), `MASTODON_URL`, `MASTODON_TOKEN`.
    Ajouter les URL des profils dans `reseaux`.
